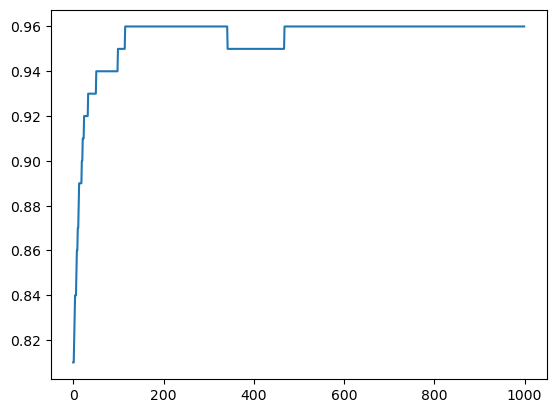
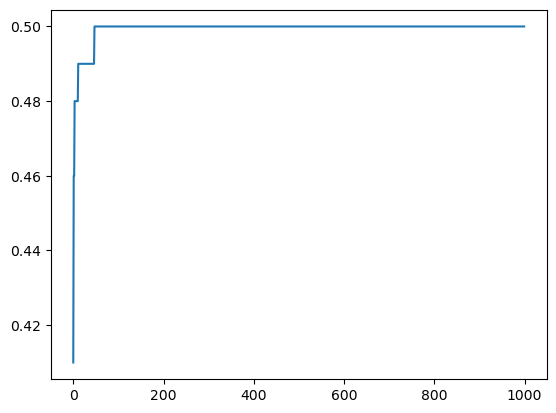
code

diff --git a/docs/posts/TimnitGebru/TimnitGebru.html b/docs/posts/TimnitGebru/TimnitGebru.html
@@ -151,12 +151,17 @@ background-size: cover;
 
 
 
+<p>Part 1:</p>
 <p>On April 24th, Timnit Gebru will be visiting Middlebury College to give a presentation on bias and social impacts of AI. Born and raised in Ethiopia, Timnit is an American computer scientist who works on algorithmic biases and data mining. She has been a vocal advocate for diversity in technology, she is the co-founder of Black in AI, a community of Black researchers working in AI, and she is the founder of the Distributed Artificial Intelligence Research Institute (DAIR). Timnit had a rough childhood ranging from her father’s death, feeling the Eritrean-Ethiopian war, being denied entry to the United States, and facing systematic racism in her early years of living in the United States. Her experiences led her to ethics in technology. In 2001, Timnit was accepted at Stanford University where she earned her Bachelor of Science and Master of Science degrees in electrical engineering and her PhD in computer vision. Shortly after her completing of her PhD, she joined Google where she co-led a team on the ethics of artificial intelligence. She studied the implications of artificial intelligence, looking to improve the ability of technology to do social good. However, just two years into her role, in December 2020, Gebru controversially departed from Google. Timnit had published a paper called “On the Dangers of Stochastic Parrots: Can Language Models Be Too Big?” that covered the risks of large language models. In December 2020, Gebru’s employment ended after high Google managers asked her to either withdraw the paper or remove the names of all the Google employees from the paper. Gebru requested insight into their decision and warned that non-compliance would result in her departure. Google terminated her employment immediately, stating they were accepting her resignation. Aside from this controversy, Timnit has been widely recognized. She was named one of the World’s 50 Greatest Leaders by Fortune, won the 2019 AI Innovations Award in the category AI for Good for highlighting the significant problem of algorithmic bias in facial recognition, one of Nature’s ten people who shaped science in 2021, and one of Time’s most influential people in 2022.</p>
-<p>Timnit Gebru discussed “faception” in the 2020 Fairness Accountability Transparency and Ethics in Computer Vision lecture. What is faception? She explains that it is the “first to-technology and first-to-market with proprietary computer vision and machine learning technology for profiling people and revealing their personality based only on their facial image”. It other words, it is an algorithm that can determine your IQ or see whether or not you are a terrorist based on one facial image. This type of technology is incredibly harmful because it incorrectly categorizes people, often in a negative way, and it negatively targets minorities and those in underrepresented groups. It’s technology like this that Gebru warns us about. It’s not just faception now. For example, the Hire Vue video intelligence that detects your verbal and non-verbal cues to determine whether you are qualified for a job. It determines whether you are ‘happy’ or ‘smart’, which are all very subjective descriptions. The Baltimore police also uses extensive facial recognition in an unconstitutional way. They used facial recognition to surveil people at protests and rallies – activities protected by the First Amendment. But doing such discourages political participation. They used facial recognition on social media photos to identify people at the Freddie Gray protests and target them for unnecessary arrests.</p>
-<p>Digging a little bit deeper into facial recognition, Gebru discusses the usage of facial recognition in big tech corporations such as IBM and Google. She found that there were high error rates for darker-skinned women and light-skinned people. The reason for such was a lack of diversity in data sets that people use. A lot of data comes from exclusively western settings. Similarly, a lot of experiments exclusively use men. For example, in clinical trials, medicine is tested on men only. As a result, women tend to suffer more. The same is true with safety testing using dummies. A lot of the times, testing, especially for vehicle safety, use male dummies. In the real world, women are disproportionately harmed. There is also a lot of harm for transgender individuals, especially in gender recognition. There are issues with misgendering, and facial recognition also assumes that gender is binary.</p>
-<p>On the bright side, there have been an increasing amount of pushback. Gebru is a part of an organization called Black in AI, which is “a place for sharing ideas, fostering collaboration, and discussing initiatives to increase the presence of Black people in the field of AI”. People are also combatting facial recognition through interesting makeup that fools facial recognition, fashion that people wear to fool facial recognition, and systems of refusal in engaging with this technology.</p>
+<p>Timnit Gebru discussed “faception” in the 2020 Fairness Accountability Transparency and Ethics in Computer Vision lecture. What is faception? She explains that it is the “first to-technology and first-to-market with proprietary computer vision and machine learning technology for profiling people and revealing their personality based only on their facial image”. It other words, it is an algorithm that can determine your IQ or see whether or not you are a terrorist based on one facial image. This type of technology is incredibly harmful because it incorrectly categorizes people, often in a negative way, and it negatively targets minorities and those in underrepresented groups. It’s technology like this that Gebru warns us about. It’s not just faception now. For example, the Hire Vue video intelligence that detects your verbal and non-verbal cues to determine whether you are qualified for a job. It determines whether you are ‘happy’ or ‘smart’, which are all very subjective descriptions. The Baltimore police also uses extensive facial recognition in an unconstitutional way. They used facial recognition to surveil people at protests and rallies – activities protected by the First Amendment. But doing such discourages political participation. They used facial recognition on social media photos to identify people at the Freddie Gray protests and target them for unnecessary arrests. Digging a little bit deeper into facial recognition, Gebru discusses the usage of facial recognition in big tech corporations such as IBM and Google. She found that there were high error rates for darker-skinned women and light-skinned people. The reason for such was a lack of diversity in data sets that people use. A lot of data comes from exclusively western settings. Similarly, a lot of experiments exclusively use men. For example, in clinical trials, medicine is tested on men only. As a result, women tend to suffer more. The same is true with safety testing using dummies. A lot of the times, testing, especially for vehicle safety, use male dummies. In the real world, women are disproportionately harmed. There is also a lot of harm for transgender individuals, especially in gender recognition. There are issues with misgendering, and facial recognition also assumes that gender is binary. On the bright side, there have been an increasing amount of pushback. Gebru is a part of an organization called Black in AI, which is “a place for sharing ideas, fostering collaboration, and discussing initiatives to increase the presence of Black people in the field of AI”. People are also combatting facial recognition through interesting makeup that fools facial recognition, fashion that people wear to fool facial recognition, and systems of refusal in engaging with this technology.</p>
 <p>As used today, computer vision is harmful to underrepresented minorities and women because large corporations and privileged groups are using computer vision to gain power, profits, or control populations.</p>
-<p>A question I have for Timnit: In your 2020 lecture you explain that “there are very few people who are black, especially in the Computer Vision community”. There are also very few women. Being a woman of color in the computer vision community, have you felt imposter syndrome? If so, how do you handle such feelings?</p>
+<p>A question I have for Timnit: In your 2020 lecture you explain that “there are very few people who are black, especially in the Computer Vision community”. There are also very few women. Being a woman of color in the computer vision community, have you felt imposter syndrome? If so, how do you handle such feelings?   Part 2:</p>
+<p>We listened to Timnit Gebru’s lecture on “Eugenics and the Promise of Utopia through Artificial General Intelligence”. In her discussion, she starts by explaining how many people are not getting rich from AI. Contrary to popular beliefs, creating well-functioning and modern AI require exploited workers. Their job is to supply data without getting compensation. For instance, Kenyan workers are paid less than $2 per hour to moderate explicit and violent content to help produce work like ChatGPT. So, when wealthy individuals talk about the benefits of AI, they fail to acknowledge the harms to underprivileged people and exploited employees.</p>
+<p>Furthermore, Gebru connects AGI to Eugenics. Starting with the discussion of AGI, Gebru explains how the definition of AGI is not well-defined. When people attempt to discuss AGI, they explain AGI as an autonomous system that can outperform and out-think humans. It almost sounds like God. And this way of thinking is rooted in the 20th century Anglo-American thinking, such as Eugenics.</p>
+<p>When thinking about Eugenics, many people connect the movement to Nazis and believe that eugenics disappeared at the end of World War II. However, eugenics continue. We can split eugenics into three waves, but Gebru focuses on the first two. In the first wave, the goal of eugenics was to “improve the human stock through negative eugenics”. We can define negative eugenics as the attempt to get rid of undesirable traits because it would help improve the overall human race. Undesirable traits include idiocrasy, specific skin colors, disabilities, etc. This caused discrimination against under-represented groups. And we saw this will the mass genocide of Jews during World War II. After the first wave of eugenics, which died at the end of WWII, we entered the second wave of eugenics. The goal of the second wave was to improve the human stock through positive eugenics. This includes giving people the ability to design their children or encouraging people with desirable traits to reproduce more. But within Eugenics, we see people strive to “transcend humanism”, emerge with technology, and explode with intelligence.</p>
+<p>We see this goal arise with AGI as well. The goal of many people is to enhance the human race and grow beyond what humans are capable of. And this leads us to the TESCREAL bundle. AGI can lead to utopia, or it can lead to an apocalypse. Starting with AGI utopia, we saw the idea of utopia emerge during the first and second wave eugenics. But in short, if we produce the necessary technology, we can bloom and thrive. On the other hand, technology can go wrong and lead to an apocalypse. People often oversimplify technology and the future of technology by classifying it as either a utopia or an apocalypse. In reality, AGI has started a race to the bottom. Every company feels like they have to create a certain model that can do everything. And this leads to a lot of centralization of power. This makes it difficult for small organizations to get funding for projects and products. Also, it is often the case that larger companies do subpar work compared to smaller companies. This debunks the idea of AGI Utopia. In terms of AGI Apocalypse, Gebru explains that by talking about at apocalypse, which is much more likely than a utopia, we are detracting accountability from the corporations that are building the machines. Instead, we are placing the blame on the machines itself.</p>
+<p>Given this talk, I find that there is accountability that needs to happen, especially within large corporations. The exploitation of workers and the race to the bottom creates dishonesty and a lack of transparency. While there are many points that I agree with, I found Gebru’s talk to be lacking in a lot of ways. The connection between Eugenics and AGI felt like a large leap. There are many goals and ideas that are shared between the communities, but I do not understand the connection between the two. I also found her talk to be lacking in concrete evidence. That also made me skeptical about her lecture. I would also like to discuss her reaction to challenges and disagreements in her argument. The question-and-answer portion of her lecture seemed unprofessional. When presented with a question that opposed her opinions, she immediately shut the audience member down, exclaiming that it was inappropriate to ask such questions. That discredited her even more because having a strong understanding in a topic suggests that you understand both sides of an argument. Having a professional conversation about a controversial topic is much more beneficial and persuasive if the conversation presents facts and is calm. The fact that she refused to hear and answer someone’s question that challenges her beliefs partially suggests that she lacks the understanding of the other side.</p>
+<p>I thoroughly enjoyed hearing about her background in our in-class portion. She paved the way for many POC women in computer science. And her experiences are inspiring. However, I was set back by the lecture aspect. I understand that she’s extremely passionate about eugenics and AIG. But after that lecture, I am skeptical about her research.</p>
 
 
 

diff --git a/docs/posts/Perceptron/Perceptron.html b/docs/posts/Perceptron/Perceptron.html
@@ -189,7 +189,7 @@ background-size: cover;
 <p>**Experimentation:</p>
 <p>The first set of experimentation that I did was changing the learning rates. Included in my fit function within my Perceptron class, I set the learning rates between 0.001 and 1. I noticed that when I changed my learning rate to 0.001, the perceptron algorithm learned slowly, much slower. However, when I set the perceptron algorithm to 1, the algorithm learned extremely fast, and I couldn’t see the progression of the accuracy. So, the sweet spot was setting the learning rate to 0.1.</p>
 <p>I also increeased the number of features I had to 10. When I did this, I noticed that the accuracy rate toggled in the 30’s (30% or so). This suggests that as I add features, my perceptron learns less accurately. Furthermore, when I increase the number of interations to 2,000 and maintained the number of features at 10, the accurac rate jumped to the 60’s (60% or so). Despite have a larger number of iterations, having a linearly separable graph gets more difficult. With 2 features, 1000 iterations, and a linearly separable graph, I noticed that my algorithm will always converge and produce an accuracy of 1. However, with 2 features, 1000 iterations, and a non-linearly separable graph, my algorithm never converges. The accuracy rate, at one point will stay stagnant.</p>
-<div class="cell" data-execution_count="20">
+<div class="cell" data-execution_count="18">
 <div class="sourceCode cell-code" id="cb2"><pre class="sourceCode python code-with-copy"><code class="sourceCode python"><span id="cb2-1"><a href="#cb2-1" aria-hidden="true" tabindex="-1"></a><span class="im">import</span> numpy <span class="im">as</span> np</span>
 <span id="cb2-2"><a href="#cb2-2" aria-hidden="true" tabindex="-1"></a><span class="im">import</span> pandas <span class="im">as</span> pd</span>
 <span id="cb2-3"><a href="#cb2-3" aria-hidden="true" tabindex="-1"></a><span class="im">import</span> seaborn <span class="im">as</span> sns</span>
@@ -199,15 +199,15 @@ background-size: cover;
 <span id="cb2-7"><a href="#cb2-7" aria-hidden="true" tabindex="-1"></a></span>
 <span id="cb2-8"><a href="#cb2-8" aria-hidden="true" tabindex="-1"></a>np.random.seed(<span class="dv">12345</span>)</span>
 <span id="cb2-9"><a href="#cb2-9" aria-hidden="true" tabindex="-1"></a></span>
-<span id="cb2-10"><a href="#cb2-10" aria-hidden="true" tabindex="-1"></a><span class="co"># n = 100</span></span>
+<span id="cb2-10"><a href="#cb2-10" aria-hidden="true" tabindex="-1"></a>n <span class="op">=</span> <span class="dv">100</span></span>
 <span id="cb2-11"><a href="#cb2-11" aria-hidden="true" tabindex="-1"></a>p_features <span class="op">=</span> <span class="dv">3</span></span>
-<span id="cb2-12"><a href="#cb2-12" aria-hidden="true" tabindex="-1"></a>n <span class="op">=</span> (p_features <span class="op">-</span> <span class="dv">1</span>) <span class="op">*</span> <span class="dv">50</span></span>
+<span id="cb2-12"><a href="#cb2-12" aria-hidden="true" tabindex="-1"></a><span class="co">#n = (p_features - 1) * 50</span></span>
 <span id="cb2-13"><a href="#cb2-13" aria-hidden="true" tabindex="-1"></a></span>
 <span id="cb2-14"><a href="#cb2-14" aria-hidden="true" tabindex="-1"></a>X, y <span class="op">=</span> make_blobs(n_samples <span class="op">=</span> n, n_features <span class="op">=</span> p_features <span class="op">-</span> <span class="dv">1</span>, centers <span class="op">=</span> [(<span class="op">-</span><span class="fl">1.7</span>, <span class="op">-</span><span class="fl">1.7</span>), (<span class="fl">1.7</span>, <span class="fl">1.7</span>)])</span>
 <span id="cb2-15"><a href="#cb2-15" aria-hidden="true" tabindex="-1"></a><span class="co"># X, y = make_blobs(n_samples = n, n_features = p_features - 1)</span></span>
 <span id="cb2-16"><a href="#cb2-16" aria-hidden="true" tabindex="-1"></a><span class="co"># X_train, X_test, y_train, y_test = train_test_split(X, y, test_size=0.2, random_state=42)</span></span></code><button title="Copy to Clipboard" class="code-copy-button"><i class="bi"></i></button></pre></div>
 </div>
-<div class="cell" data-execution_count="21">
+<div class="cell" data-execution_count="19">
 <div class="sourceCode cell-code" id="cb3"><pre class="sourceCode python code-with-copy"><code class="sourceCode python"><span id="cb3-1"><a href="#cb3-1" aria-hidden="true" tabindex="-1"></a><span class="kw">class</span> Perceptron:</span>
 <span id="cb3-2"><a href="#cb3-2" aria-hidden="true" tabindex="-1"></a>    <span class="kw">def</span> <span class="fu">__init__</span>(<span class="va">self</span>):</span>
 <span id="cb3-3"><a href="#cb3-3" aria-hidden="true" tabindex="-1"></a>        <span class="va">self</span>.weights <span class="op">=</span> <span class="va">None</span></span>
@@ -215,9 +215,9 @@ background-size: cover;
 <span id="cb3-5"><a href="#cb3-5" aria-hidden="true" tabindex="-1"></a>        <span class="va">self</span>.training_history <span class="op">=</span> []</span>
 <span id="cb3-6"><a href="#cb3-6" aria-hidden="true" tabindex="-1"></a>    </span>
 <span id="cb3-7"><a href="#cb3-7" aria-hidden="true" tabindex="-1"></a>    <span class="kw">def</span> indicator(<span class="va">self</span>, X):</span>
-<span id="cb3-8"><a href="#cb3-8" aria-hidden="true" tabindex="-1"></a>        <span class="cf">return</span> np.where(X <span class="op">&gt;</span> <span class="dv">0</span>, <span class="dv">1</span>, <span class="dv">0</span>)</span>
+<span id="cb3-8"><a href="#cb3-8" aria-hidden="true" tabindex="-1"></a>        <span class="cf">return</span> np.where(X <span class="op">&gt;</span> <span class="dv">0</span>, <span class="dv">1</span>, <span class="op">-</span><span class="dv">1</span>)</span>
 <span id="cb3-9"><a href="#cb3-9" aria-hidden="true" tabindex="-1"></a>    </span>
-<span id="cb3-10"><a href="#cb3-10" aria-hidden="true" tabindex="-1"></a>    <span class="kw">def</span> fit(<span class="va">self</span>, X, y, num_iterations<span class="op">=</span><span class="dv">1000</span>, learning_rate<span class="op">=</span><span class="fl">0.001</span>):</span>
+<span id="cb3-10"><a href="#cb3-10" aria-hidden="true" tabindex="-1"></a>    <span class="kw">def</span> fit(<span class="va">self</span>, X, y, num_iterations<span class="op">=</span><span class="dv">1000</span>, learning_rate<span class="op">=</span><span class="fl">0.01</span>):</span>
 <span id="cb3-11"><a href="#cb3-11" aria-hidden="true" tabindex="-1"></a>        <span class="va">self</span>.weights <span class="op">=</span> np.random.randn(X.shape[<span class="dv">1</span>] <span class="op">+</span> <span class="dv">1</span>)  <span class="co"># initialize weights randomly</span></span>
 <span id="cb3-12"><a href="#cb3-12" aria-hidden="true" tabindex="-1"></a>        <span class="bu">print</span>(<span class="ss">f'Initial Weights: </span><span class="sc">{</span><span class="va">self</span><span class="sc">.</span>weights<span class="sc">}</span><span class="ss">'</span>)</span>
 <span id="cb3-13"><a href="#cb3-13" aria-hidden="true" tabindex="-1"></a></span>
@@ -248,7 +248,7 @@ background-size: cover;
 <span id="cb3-38"><a href="#cb3-38" aria-hidden="true" tabindex="-1"></a>    <span class="kw">def</span> history(<span class="va">self</span>):</span>
 <span id="cb3-39"><a href="#cb3-39" aria-hidden="true" tabindex="-1"></a>        <span class="cf">return</span> <span class="va">self</span>.training_history</span></code><button title="Copy to Clipboard" class="code-copy-button"><i class="bi"></i></button></pre></div>
 </div>
-<div class="cell" data-execution_count="22">
+<div class="cell" data-execution_count="20">
 <div class="sourceCode cell-code" id="cb4"><pre class="sourceCode python code-with-copy"><code class="sourceCode python"><span id="cb4-1"><a href="#cb4-1" aria-hidden="true" tabindex="-1"></a>p <span class="op">=</span> Perceptron()</span>
 <span id="cb4-2"><a href="#cb4-2" aria-hidden="true" tabindex="-1"></a>p.fit(X,y, num_iterations <span class="op">=</span> <span class="dv">1000</span>)</span>
 <span id="cb4-3"><a href="#cb4-3" aria-hidden="true" tabindex="-1"></a></span>
@@ -259,15 +259,15 @@ background-size: cover;
 <span id="cb4-8"><a href="#cb4-8" aria-hidden="true" tabindex="-1"></a>plt.plot(p.history())</span></code><button title="Copy to Clipboard" class="code-copy-button"><i class="bi"></i></button></pre></div>
 <div class="cell-output cell-output-stdout">
 <pre><code>Initial Weights: [ 1.67834508 -0.76553614  0.04903625]
-Weights: [1.46207353 0.1531806  0.72803625]
-Last 10 Training History: [0.96, 0.96, 0.96, 0.96, 0.96, 0.96, 0.96, 0.96, 0.96, 0.96]
-Score: 0.96</code></pre>
+Weights: [1.47322257 0.1682865  0.73903625]
+Last 10 Training History: [0.5, 0.5, 0.5, 0.5, 0.5, 0.5, 0.5, 0.5, 0.5, 0.5]
+Score: 0.5</code></pre>
 </div>
 <div class="cell-output cell-output-display">
 <p><img src="Perceptron_files/figure-html/cell-5-output-2.png" class="img-fluid"></p>
 </div>
 </div>
-<div class="cell" data-execution_count="23">
+<div class="cell" data-execution_count="21">
 <div class="sourceCode cell-code" id="cb6"><pre class="sourceCode python code-with-copy"><code class="sourceCode python"><span id="cb6-1"><a href="#cb6-1" aria-hidden="true" tabindex="-1"></a><span class="im">import</span> numpy <span class="im">as</span> np</span>
 <span id="cb6-2"><a href="#cb6-2" aria-hidden="true" tabindex="-1"></a><span class="im">import</span> pandas <span class="im">as</span> pd</span>
 <span id="cb6-3"><a href="#cb6-3" aria-hidden="true" tabindex="-1"></a><span class="im">import</span> seaborn <span class="im">as</span> sns</span>
@@ -286,6 +286,35 @@ Score: 0.96</code></pre>
 <span id="cb6-16"><a href="#cb6-16" aria-hidden="true" tabindex="-1"></a>ylab <span class="op">=</span> plt.ylabel(<span class="st">"Feature 2"</span>)</span></code><button title="Copy to Clipboard" class="code-copy-button"><i class="bi"></i></button></pre></div>
 <div class="cell-output cell-output-display">
 <p><img src="Perceptron_files/figure-html/cell-6-output-1.png" class="img-fluid"></p>
+</div>
+</div>
+<p>Testing my perceptron algorithm on linearly seperable data, we can see that my perceptron algorithm is able to correctly separate the two sets of points, as seen below:</p>
+<div class="cell" data-execution_count="22">
+<div class="sourceCode cell-code" id="cb7"><pre class="sourceCode python code-with-copy"><code class="sourceCode python"><span id="cb7-1"><a href="#cb7-1" aria-hidden="true" tabindex="-1"></a><span class="im">import</span> numpy <span class="im">as</span> np</span>
+<span id="cb7-2"><a href="#cb7-2" aria-hidden="true" tabindex="-1"></a><span class="im">import</span> matplotlib.pyplot <span class="im">as</span> plt</span>
+<span id="cb7-3"><a href="#cb7-3" aria-hidden="true" tabindex="-1"></a></span>
+<span id="cb7-4"><a href="#cb7-4" aria-hidden="true" tabindex="-1"></a><span class="co"># Generate linearly separable data</span></span>
+<span id="cb7-5"><a href="#cb7-5" aria-hidden="true" tabindex="-1"></a>np.random.seed(<span class="dv">0</span>)</span>
+<span id="cb7-6"><a href="#cb7-6" aria-hidden="true" tabindex="-1"></a>X <span class="op">=</span> np.random.randn(<span class="dv">100</span>, <span class="dv">2</span>)</span>
+<span id="cb7-7"><a href="#cb7-7" aria-hidden="true" tabindex="-1"></a>y <span class="op">=</span> np.where(X[:,<span class="dv">0</span>] <span class="op">+</span> X[:,<span class="dv">1</span>] <span class="op">&gt;</span> <span class="dv">0</span>, <span class="dv">1</span>, <span class="op">-</span><span class="dv">1</span>)</span>
+<span id="cb7-8"><a href="#cb7-8" aria-hidden="true" tabindex="-1"></a></span>
+<span id="cb7-9"><a href="#cb7-9" aria-hidden="true" tabindex="-1"></a><span class="co"># Fit the perceptron algorithm to the data</span></span>
+<span id="cb7-10"><a href="#cb7-10" aria-hidden="true" tabindex="-1"></a>p <span class="op">=</span> Perceptron()</span>
+<span id="cb7-11"><a href="#cb7-11" aria-hidden="true" tabindex="-1"></a>p.fit(X, y)</span>
+<span id="cb7-12"><a href="#cb7-12" aria-hidden="true" tabindex="-1"></a></span>
+<span id="cb7-13"><a href="#cb7-13" aria-hidden="true" tabindex="-1"></a><span class="co"># Plot the decision boundary</span></span>
+<span id="cb7-14"><a href="#cb7-14" aria-hidden="true" tabindex="-1"></a>fig <span class="op">=</span> plt.scatter(X[:,<span class="dv">0</span>], X[:,<span class="dv">1</span>], c<span class="op">=</span>y)</span>
+<span id="cb7-15"><a href="#cb7-15" aria-hidden="true" tabindex="-1"></a>fig <span class="op">=</span> draw_line(p.w(), <span class="op">-</span><span class="dv">2</span>, <span class="dv">2</span>)</span>
+<span id="cb7-16"><a href="#cb7-16" aria-hidden="true" tabindex="-1"></a></span>
+<span id="cb7-17"><a href="#cb7-17" aria-hidden="true" tabindex="-1"></a>xlab <span class="op">=</span> plt.xlabel(<span class="st">"Feature 1"</span>)</span>
+<span id="cb7-18"><a href="#cb7-18" aria-hidden="true" tabindex="-1"></a>ylab <span class="op">=</span> plt.ylabel(<span class="st">"Feature 2"</span>)</span>
+<span id="cb7-19"><a href="#cb7-19" aria-hidden="true" tabindex="-1"></a></span>
+<span id="cb7-20"><a href="#cb7-20" aria-hidden="true" tabindex="-1"></a>plt.show()</span></code><button title="Copy to Clipboard" class="code-copy-button"><i class="bi"></i></button></pre></div>
+<div class="cell-output cell-output-stdout">
+<pre><code>Initial Weights: [-0.36918184 -0.23937918  1.0996596 ]</code></pre>
+</div>
+<div class="cell-output cell-output-display">
+<p><img src="Perceptron_files/figure-html/cell-7-output-2.png" class="img-fluid"></p>
 </div>
 </div>
 <p>**Runtime:</p>

diff --git a/docs/index.html b/docs/index.html
@@ -195,7 +195,7 @@ background-size: cover;
 <a href="./posts/LinearRegression/Untitled.html"> </a>
 </div>
 </div>
-<div class="quarto-post image-right" data-index="1" data-listing-file-modified-sort="1682427887660" data-listing-reading-time-sort="2.615">
+<div class="quarto-post image-right" data-index="1" data-listing-file-modified-sort="1682966873792" data-listing-reading-time-sort="2.75">
 <div class="thumbnail">
 <a href="./posts/Perceptron/Perceptron.html">
 <div class="thumbnail-image">
@@ -243,7 +243,7 @@ background-size: cover;
 <a href="./posts/PenguinPost/Penguin.html"> </a>
 </div>
 </div>
-<div class="quarto-post image-right" data-index="3" data-listing-date-sort="1681790400000" data-listing-file-modified-sort="1681834890642" data-listing-reading-time-sort="4.35">
+<div class="quarto-post image-right" data-index="3" data-listing-date-sort="1681790400000" data-listing-file-modified-sort="1682961317433" data-listing-reading-time-sort="8.61">
 <div class="thumbnail">
 <p><a href="./posts/TimnitGebru/TimnitGebru.html"> <img src="./posts/TimnitGebru/image.jpg" class="thumnail-image"> </a></p>
 </div>
